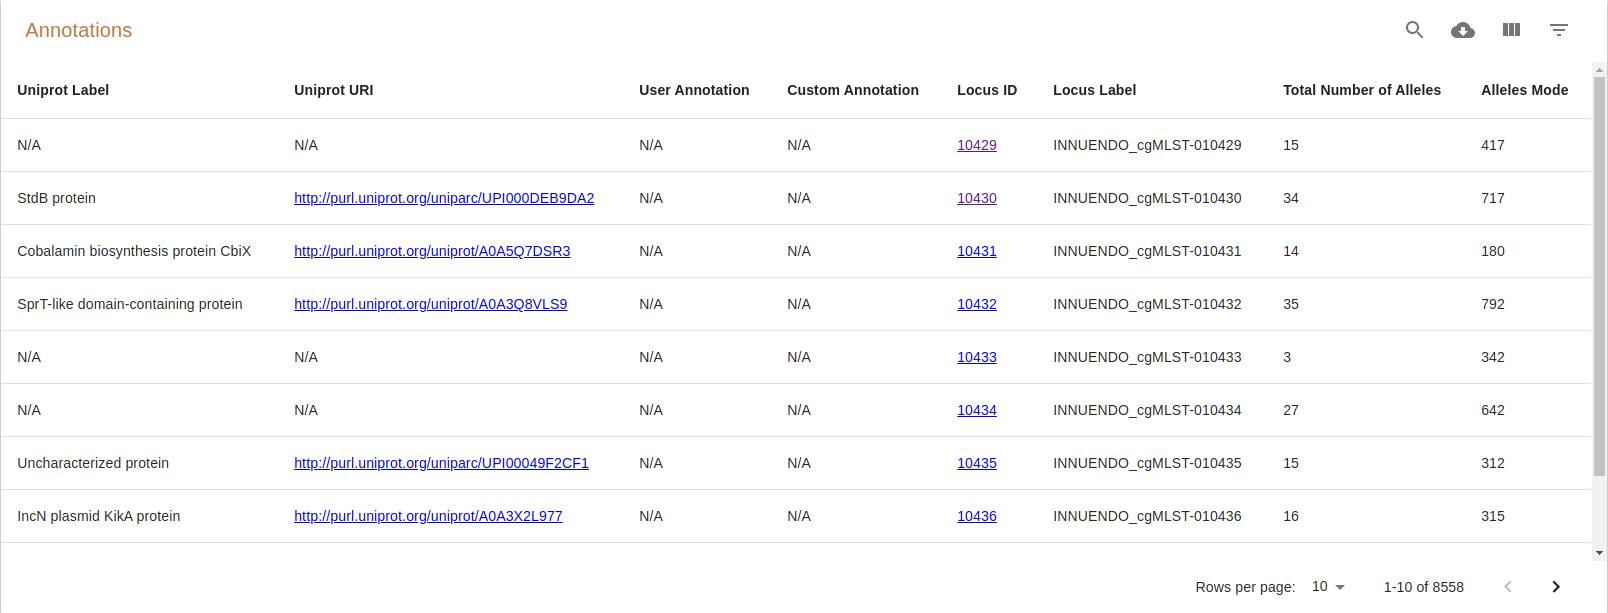
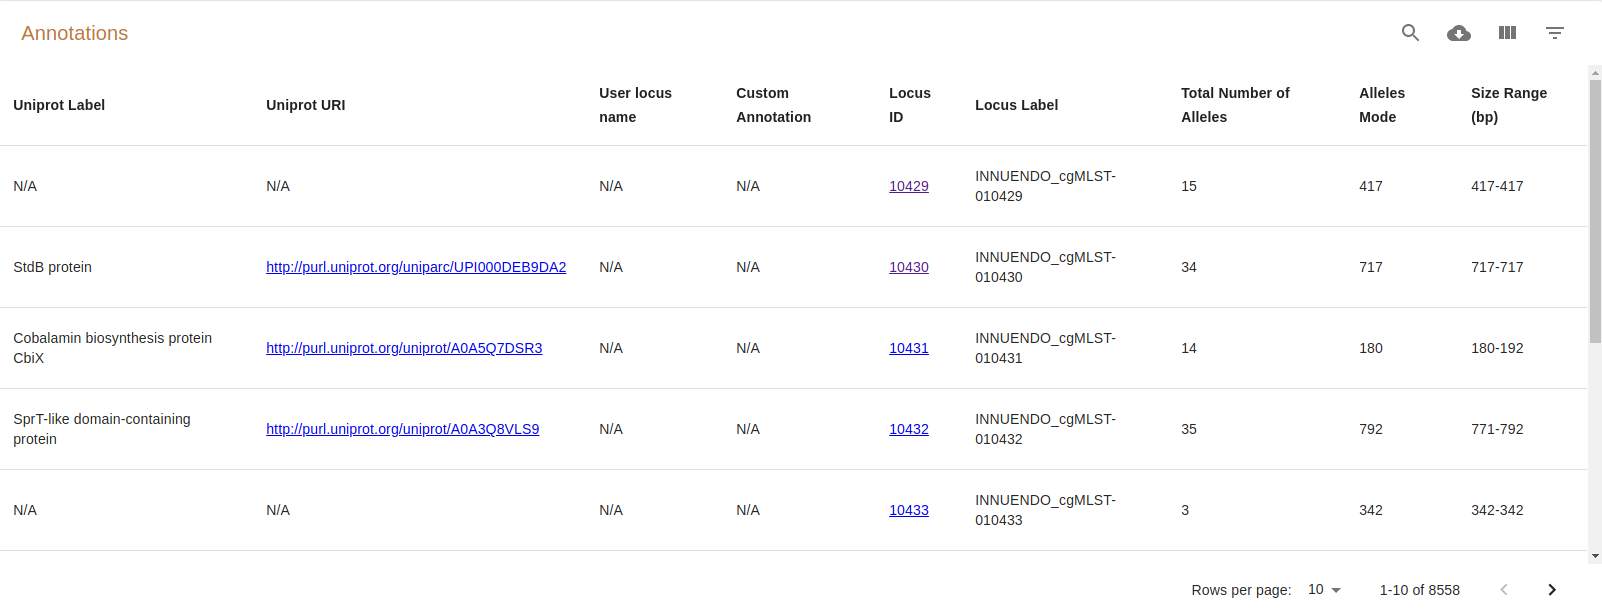
Updatedt text and figures.

diff --git a/docs/user_interface/schema_evaluation.rst b/docs/user_interface/schema_evaluation.rst
@@ -88,10 +88,10 @@ having an **allele mode size (x-axis)** within the range shown.
 Locus Statistics
 ^^^^^^^^^^^^^^^^
 
-This plot displays the number of alleles and the central tendency measures **mean**, **median** and **mode** of the length of each locus.
+This plot displays the number of alleles, the **median**  and the **size range (minimum and maximum)** of the length of each locus.
 
 The **y-axis** represents the **number of alleles in the locus** while the 
-**x-axis** represents the **central tendency measures of the length of the alleles in base pairs**.
+**x-axis** represents the **median**  and the **size range (minimum and maximum) of the length of the alleles in base pairs**.
 
 For example, **Figure 8** shows that Locus 16801 has more than 1500 alleles (y-axis) and 
 that the central tendency measures of allele length are similar are over 5500 base pairs.
@@ -139,6 +139,7 @@ The columns of the table are the following:
 - **Locus Label**: the Chewie-NS label assigned to the locus.
 - **Total Number of Alelles**: the total number of alleles of that locus.
 - **Alleles Mode**: the mode of the size of alleles.
+- **Size Range (bp)**: the range of sequence lengths of the alleles in base pairs.
 
 .. figure:: ../resources/annotations_table.png
     :align: center
